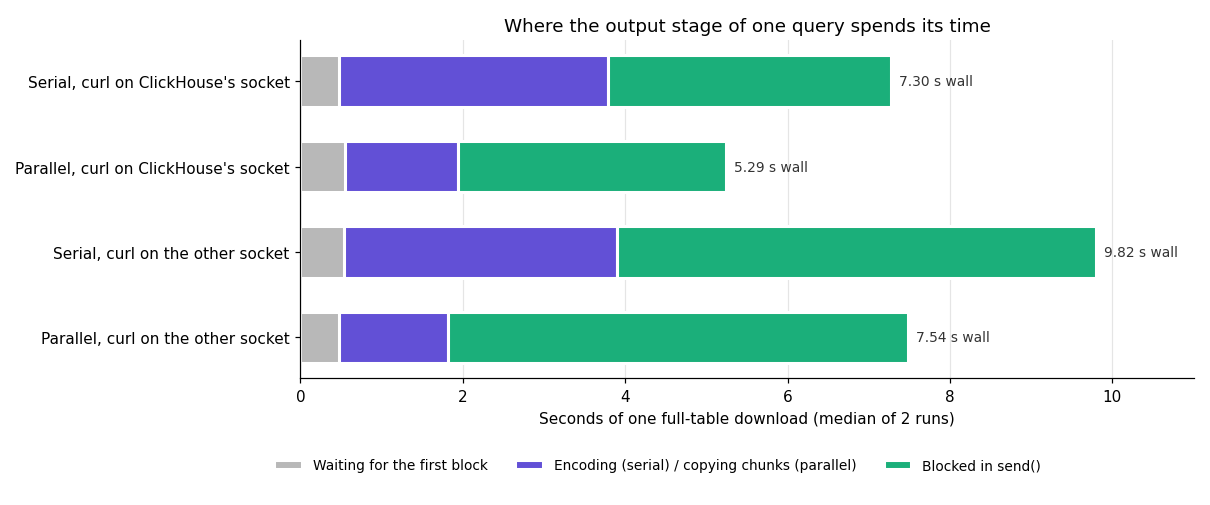
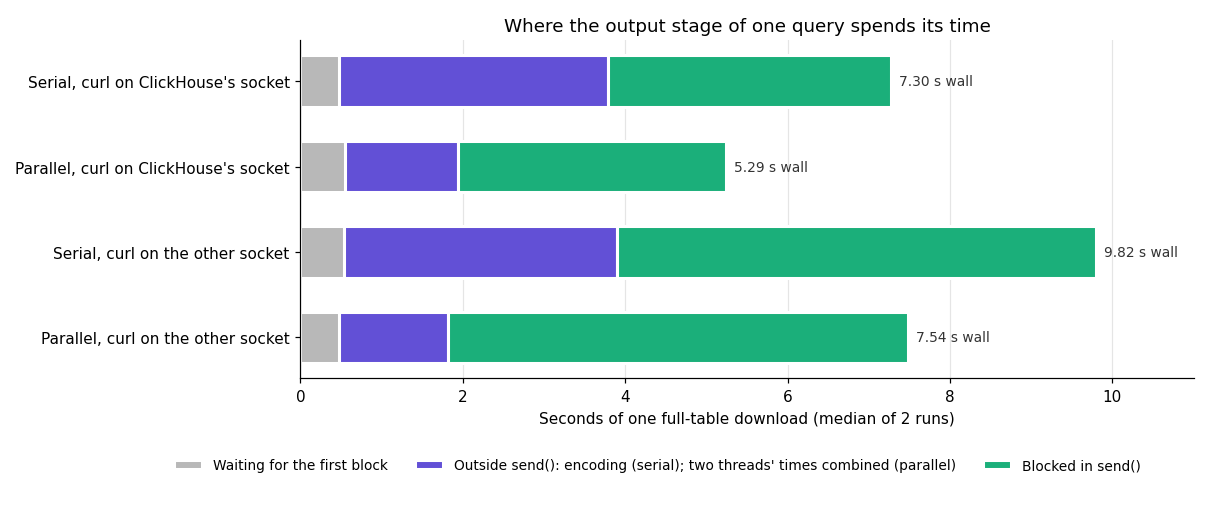
docs: correct the collector time split in the parallel ArrowStream report
The report attributed 1.35 s of the parallel output stage to the collector's
copy and put its send() share at 70-80%, by subtracting two different
threads' times. Per-thread measurements give 1.96 s of copying and 62-75% in
send(), which is the sender's own kernel work.

Changed region(s): [[0.1529, 0.8911, 0.9479, 0.9505]]

diff --git a/reports/parallel-arrowstream-20261111/plot_parallel_arrowstream.py b/reports/parallel-arrowstream-20261111/plot_parallel_arrowstream.py
@@ -78,7 +78,7 @@ ROWS = (("par0-cpu9", "Serial, curl on ClickHouse's socket"),
         ("par0-cpu19", "Serial, curl on the other socket"),
         ("par1-cpu19", "Parallel, curl on the other socket"))
 PARTS = (("Waiting for the first block", "#b8b8b8"),
-         ("Encoding (serial) / copying chunks (parallel)", "#6250d6"),
+         ("Outside send(): encoding (serial); two threads' times combined (parallel)", "#6250d6"),
          ("Blocked in send()", "#1baf7a"))
 medians = {key: [statistics.median(v[i] for v in runs[key]) for i in range(4)] for key, _ in ROWS}
 fig, ax = plt.subplots(figsize=(11, 4.6))

diff --git a/reports/parallel-arrowstream-20261111/README.md b/reports/parallel-arrowstream-20261111/README.md
@@ -5,6 +5,12 @@ Measured 2026-11-11 on `c220g2-010602.wisc.cloudlab.us` (2× Xeon E5-2660 v3, Ha
 that one query's output is a serial stage: one processor encodes every Arrow block and writes it to the socket.
 This report prototypes encoding `ArrowStream` output in parallel and measures what it changes.
 
+> **Correction (2026-11-11).** An earlier version attributed 1.35 s of the parallel output stage to the collector
+> copying chunks into the HTTP buffer, and said the collector spent 70–80% of its time in `send()`. Both figures
+> subtracted two different threads' times. Measured per thread in the
+> [direct-send report](../direct-send-20261111/README.md), the collector is 99% busy: 1.96 s copying and 3.3 s
+> (62%) or 5.7 s (75%) in `send()`, which is the sender's own kernel work. The affected text and chart are fixed.
+
 **Summary.**
 
 - **The prototype reuses ClickHouse's existing parallel formatting.** `ArrowStream` record batches are
@@ -16,8 +22,8 @@ This report prototypes encoding `ArrowStream` output in parallel and measures wh
 - **Many streams are 8–9% slower.** From 4 streams up the batch takes 3.58–3.67 s instead of 3.29–3.36 s.
   ClickHouse's CPUs are already 90–96% busy there, and parallel formatting costs a little more CPU. The fastest
   batch is still serial formatting with 6–10 streams, at 3.29 s.
-- **The new single-stream bottleneck is the query's one connection.** The collector thread spends 70–80% of its
-  time blocked in `send()`: 3.3 s on ClickHouse's socket and 5.7 s from the other, the same as before. One
+- **The new single-stream bottleneck is the query's one connection.** The collector thread spends 62–75% of its
+  time in `send()`: 3.3 s on ClickHouse's socket and 5.7 s from the other, the same as before. One
   connection moves about 1.8 GB/s and 1.3 GB/s respectively.
 - **Multiple streams still help because each has its own connection.** Before, they also parallelized encoding;
   now only sending. The best speedup over one stream drops from 2.96× to 2.11×.
@@ -105,13 +111,17 @@ Raw curl downloads of the full table, from `system.query_log` and `system.proces
 | curl wall time | 7.27–7.33 s | **5.17–5.41 s** | 9.77–9.88 s | **7.51–7.56 s** |
 | Output stage busy | 6.79–6.83 s | 4.58–4.82 s | 9.20–9.32 s | 6.98–7.03 s |
 | …blocked in `send()` | 3.49 s | 3.22–3.39 s | 5.89–5.92 s | 5.64–5.70 s |
-| …everything else | 3.30–3.33 s | 1.36–1.43 s | 3.31–3.40 s | 1.33–1.34 s |
+| …everything else (parallel: see below) | 3.30–3.33 s | 1.36–1.43 s | 3.31–3.40 s | 1.33–1.34 s |
 | Waiting for the first block | 0.46–0.48 s | 0.54–0.55 s | 0.54 s | 0.48 s |
 | Table readers blocked on output (longest) | 6.60–6.62 s | 4.36–4.61 s | 9.09–9.20 s | 6.76–6.83 s |
 | ClickHouse CPU | 28.3–28.5 s | 31.0–31.3 s | 30.7–30.9 s | 31.0–31.4 s |
 
-- **Encoding is off the serial path.** Outside `send()`, the serial output stage spent 3.3 s, mostly encoding.
-  The parallel collector spends 1.35 s, copying each encoded chunk into the HTTP output buffer.
+- **Encoding is off the serial path.** Outside `send()`, the serial output stage spent 3.3 s encoding batches and
+  writing them into the HTTP output buffer. For the parallel columns, "everything else" is not one thread's time:
+  the output stage's busy time belongs to the pipeline thread handing chunks to the formatter, while the time in
+  `send()` belongs to the collector. Measured per thread in the
+  [direct-send report](../direct-send-20261111/README.md), the collector spends 1.96 s copying encoded chunks into
+  the HTTP buffer and is otherwise in `send()`.
 - **`send()` time did not change,** so the saving is the encoding time, about 2 s on either socket.
 - **The query is still paced by one thread.** The first-block wait plus the output stage's busy time still equals
   the wall time, and the 32 table readers still spend most of the query blocked on output.
@@ -155,11 +165,11 @@ ClickHouse's side of the same runs ([serial](./data/streams-par0-clickhouse.txt)
 ## 6. The new bottleneck, and why multiple streams still help
 
 - **One query is limited by its single connection.** The parallel collector is the only thread that writes to the
-  socket, and 70–80% of its time is blocked in `send()`. One connection moves 9.67 GB in about 5.3 s
+  socket, and 62–75% of its time is in `send()` (measured per thread in the direct-send report). One connection moves 9.67 GB in about 5.3 s
   (1.8 GB/s) to ClickHouse's socket and in about 7.5 s (1.3 GB/s) to the other socket.
-- **What `send()` waits on is open.** It could be the sending thread's own kernel work; on loopback the sender
-  also does much of the receive-side TCP processing. Or the socket buffer could be full, waiting for the receiver.
-  The client is not the limit compared with curl, since one `read_adbc` stream matches curl's time.
+- **`send()` time is the sender's own kernel work,** as the direct-send report later measured, not waiting for the
+  receiver: on loopback the sending thread also runs most of the receive-side TCP processing. The client is not
+  the limit compared with curl, since one `read_adbc` stream matches curl's time.
 - **N streams give N connections and N collectors,** so the time blocked in `send()` overlaps. Before this change,
   multiple streams also overlapped encoding; parallel formatting already does that within one query, so the gain
   from multiple streams shrinks from 2.96× to 2.11×.
@@ -172,7 +182,7 @@ ClickHouse's side of the same runs ([serial](./data/streams-par0-clickhouse.txt)
    `max_threads`; at 10 streams each query has 3.
 2. **Make the parallel path cheaper,** so it also wins when CPU is the limit:
    - have the collector send each encoded chunk straight to the socket instead of copying it into the HTTP buffer
-     (1.35 s per full table);
+     (1.96 s per full table; the [direct-send report](../direct-send-20261111/README.md) does this);
    - reuse encoders across chunks, which the serial writer does and a fresh formatter per chunk cannot.
 3. **Measure the single-connection ceiling directly:** a plain loopback TCP transfer (iperf3, or `nc` from
    `/dev/zero`) with the receiver on CPU 9 and CPU 19. If it tops out near 1.8 and 1.3 GB/s, the remaining
